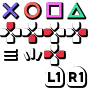
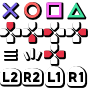
add LT/RT glyphs

Changed region(s): [[0.0, 0.7727, 0.5, 1.0], [0.3182, 0.7727, 0.3409, 0.7955], [0.0682, 0.7727, 0.0909, 0.7955]]

diff --git a/source/Burntime.MonoGame/SteamInputGlyphProvider.cs b/source/Burntime.MonoGame/SteamInputGlyphProvider.cs
@@ -240,6 +240,10 @@ sealed class SteamInputGlyphProvider : IInputGlyphProvider, IDisposable
             return InputGlyph.None;
         if (origin.EndsWith("_RightStick_Click", StringComparison.Ordinal))
             return InputGlyph.RightStick;
+        if (origin.EndsWith("_LeftTrigger_Pull", StringComparison.Ordinal))
+            return InputGlyph.LeftTrigger;
+        if (origin.EndsWith("_RightTrigger_Pull", StringComparison.Ordinal))
+            return InputGlyph.RightTrigger;
         if (origin.EndsWith("_LeftBumper", StringComparison.Ordinal))
             return InputGlyph.LeftShoulder;
         if (origin.EndsWith("_RightBumper", StringComparison.Ordinal))

diff --git a/source/Burntime.MonoGame/ForcedInputGlyphProvider.cs b/source/Burntime.MonoGame/ForcedInputGlyphProvider.cs
@@ -26,6 +26,8 @@ sealed class ForcedInputGlyphProvider(GamepadLabelStyle labelStyle) : IInputGlyp
                 ? InputGlyph.Minus
                 : InputGlyph.View,
             GamepadControl.RightStick => InputGlyph.RightStick,
+            GamepadControl.LeftTrigger => InputGlyph.LeftTrigger,
+            GamepadControl.RightTrigger => InputGlyph.RightTrigger,
             GamepadControl.LeftShoulder => InputGlyph.LeftShoulder,
             GamepadControl.RightShoulder => InputGlyph.RightShoulder,
             _ => InputGlyph.None

diff --git a/resources/Changelog.md b/resources/Changelog.md
@@ -10,6 +10,7 @@
 - Alt/LT shortcut to show all entrances
 - Place produced food preferrably next to the trap
 - Show food/trap/water infos on entrances and locations
+- Gamepad: fix access to second item layer in rooms
 
 ### Changes
 
